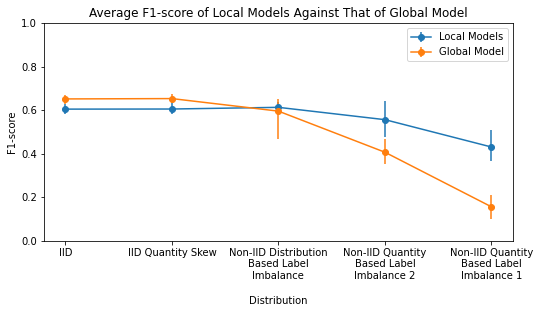
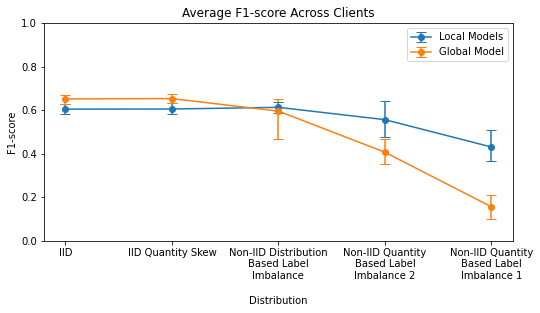
Updated Thesis

Changed region(s): [[0.1481, 0.0, 0.8889, 0.0575], [0.5037, 0.3163, 0.5333, 0.345]]

diff --git a/Thesis/main.tex b/Thesis/main.tex
@@ -184,7 +184,7 @@ We design a single-machine simulation of a Federated Learning system to detect H
 Our simulation is run in a controlled environment that is suitable for experiments. There is a fixed set of 10 clients, each with a fixed local dataset. The local datasets are formed by partitioning our dataset across the clients. As previously mentioned, for cross-device, supervised Federated Learning tasks, labels should be able to be inferred naturally from user interaction, such as in predictive text (). In hate speech detection, labels can’t be inferred naturally from user interaction. Therefore, supervised approaches to hate speech detection can be federated cross-silo but not cross-device. The Massively Distributed property and the Limited Communication property don't apply to cross-silo Federated Learning, thus they are outside of our scope. In this vein, all clients participate in each round of Federated Learning. We assume a synchronous update scheme that proceeds in rounds of communication. Each round of Federated Learning consists of a training round followed by an evaluation round. There are two main approaches to evaluate models in a Flower federated learning system: centralized evaluation and federated evaluation. In centralized evaluation, the aggregated model is validated on the server-side, and the test set is typically sampled from the original dataset's probability distribution. In federated evaluation, the aggregated model is validated on the client-side, and the test set on each client is sampled from the same probability distribution as the client's training set (Adap GmbH, 2022). We use a federated evaluation approach. The global model is initialized with zeros. At the beginning of each training round, the server sends the current global model parameters to each client. Each client then trains its local model on its local training data, and sends the updated model parameters to the server. The server then aggregates these updates through Federated Averaging and applies them to the global model. At the beginning of each evaluation round, the server sends the current global model parameters to each client. Each client then evaluates the model's validity on its test data, before the whole cycle repeats for 50 rounds.
 
 \begin{figure}[h]
-{\includegraphics[width=\columnwidth]{High Level Architecture(1)}}
+{\includegraphics[width=\columnwidth]{High Level Architecture}}
 \caption{Caption}
 \end{figure}
 
@@ -218,7 +218,7 @@ During the Federated Learning, we evaluate the convergence behaviour of the glob
 \begin{tabular}{@{}lllll@{}}
 \toprule
 \textbf{Distribution}     & \multicolumn{2}{c}{Precision (95\% CI)}                           & \multicolumn{2}{c}{Recall (95\% CI)}                              \\ \midrule
-                                           & \textbf{Aggr.} & \textbf{Local} & \textbf{Aggr.} & \textbf{Local} \\ \midrule
+                                           & \textbf{Global} & \textbf{Local} & \textbf{Global} & \textbf{Local} \\ \midrule
 IID                                        & 0.615 (0.596-0.630)             & 0.579 (0.560-0.597)             & 0.741 (0.701-0.772)             & 0.674 (0.640-0.711)             \\ \midrule
 IID Quantity Skew                          & 0.617 (0.598-0.634)             & 0.579 (0.559-0.605)             & 0.742 (0.711-0.771)             & 0.671 (0.643-0.707)             \\ \midrule
 Non-IID Distribution Based Label Imbalance & 0.586 (0.545-0.620)             & 0.598 (0.574-0.632)             & 0.722 (0.628-0.770)             & 0.672 (0.635-0.708)             \\ \midrule
@@ -236,6 +236,11 @@ Non-IID Quantity Based Label Imbalance 1   & 0.410 (0.358-0.467)             & 0
 
 \begin{figure}[h]
 {\includegraphics[width=\columnwidth]{Avg_f1_score_of_local_models_against_that_of_global_model}}
+\caption{Caption}
+\end{figure}
+
+\begin{figure}[h]
+{\includegraphics[width=\columnwidth]{Avg_dispersion_of_f1_score_of_local_models_against_that_of_global_model}}
 \caption{Caption}
 \end{figure}
 
@@ -275,7 +280,7 @@ A)  Performance of the training process may vary significantly according to the 
 Naive implementations of FedAvg (specifically federated LR, sometimes called Homogeneous LR), algo 'array broadcasts' n dimensional parameters (n is number of labels in the client's sample) received from certain clients to x dimensions, across the array of the client with all labels in the population. Hence suboptimal performance and doesn't work when none of the client samples contain all of the labels in the population.
 
 \begin{figure}[h]
-{\includegraphics[width=\columnwidth]{noniid-distribution-based-label-imbalance_2_F1-score across clients}}
+{\includegraphics[width=\columnwidth]{noniid-distribution-based-label-imbalance_seed_2performance_of_models_on_client_data_f1score}}
 \caption{Caption}
 \end{figure}
 
@@ -354,8 +359,39 @@ P. Kairouz, H. B. McMahan, B. Avent, A. Bellet, M. Bennis, A. N.
 Bhagoji, K. Bonawitz, Z. Charles, G. Cormode, R. Cummings, et al.
 Advances and open problems in federated learning. arXiv preprint
 arXiv:1912.04977, 2019.
-
+\clearpage
 \section{Appendix}
-
+\begin{figure}[hbt!]
+{\includegraphics[width=\columnwidth]{iid_distribution_of_labels_7}}
+\caption{}
+\end{figure}
+\begin{figure}[hbt!]
+{\includegraphics[width=\columnwidth]{iid_seed_7performance_of_models_on_client_data_f1score}}
+\caption{Caption}
+\end{figure}
+\begin{figure}[hbt!]
+{\includegraphics[width=\columnwidth]{iid-quantity-skew_distribution_of_labels_5}}
+\caption{Caption}
+\end{figure}
+\begin{figure}[hbt!]
+{\includegraphics[width=\columnwidth]{iid-quantity-skew_seed_5performance_of_models_on_client_data_f1score}}
+\caption{Caption}
+\end{figure}
+\begin{figure}[hbt!]
+{\includegraphics[width=\columnwidth]{noniid-quantity-based-label-imbalance-2_distribution_of_labels_2}}
+\caption{Caption}
+\end{figure}
+\begin{figure}[hbt!]
+{\includegraphics[width=\columnwidth]{noniid-quantity-based-label-imbalance-2_seed_2performance_of_local_models_f1score}}
+\caption{Caption}
+\end{figure}
+\begin{figure}[hbt!]
+{\includegraphics[width=\columnwidth]{noniid-quantity-based-label-imbalance-1_distribution_of_labels_5}}
+\caption{Caption}
+\end{figure}
+\begin{figure}[hbt!]
+{\includegraphics[width=\columnwidth]{noniid-quantity-based-label-imbalance-1_seed_5performance_of_models_on_client_data_f1score}}
+\caption{Caption}
+\end{figure}
 
 \end{document}
